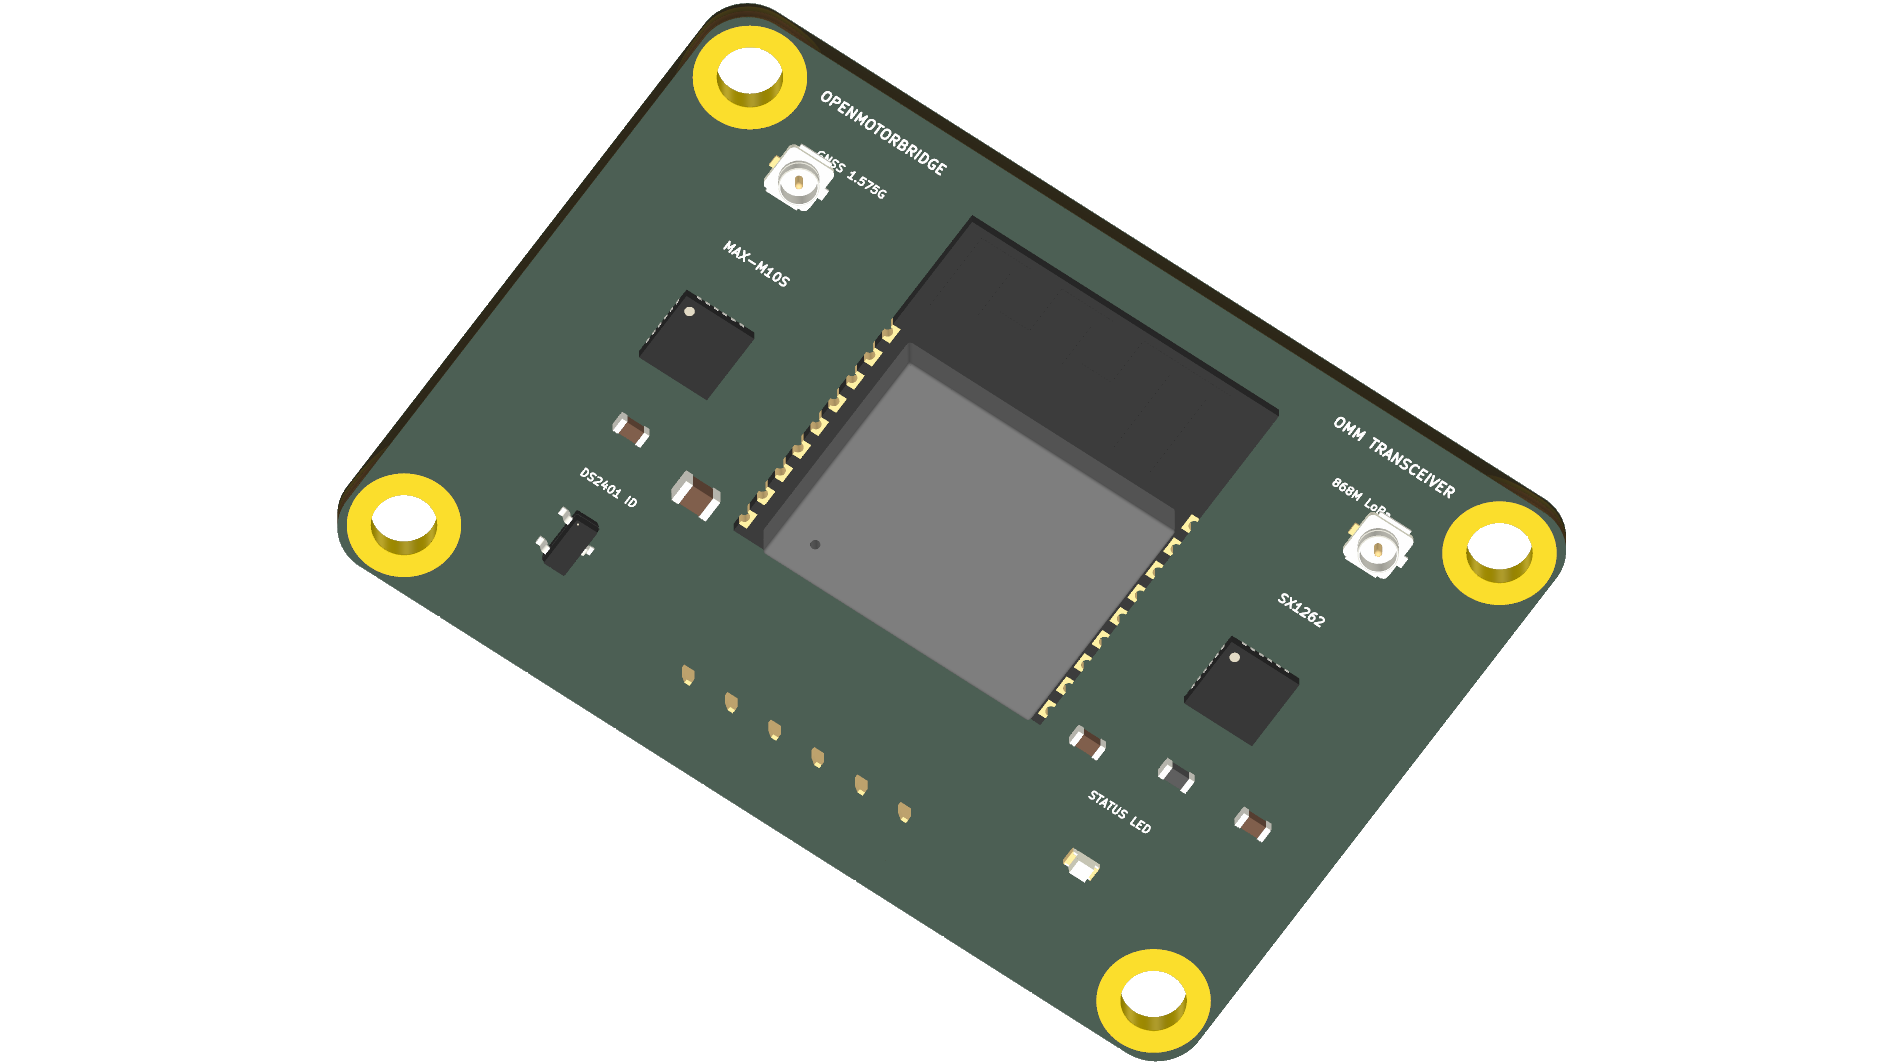
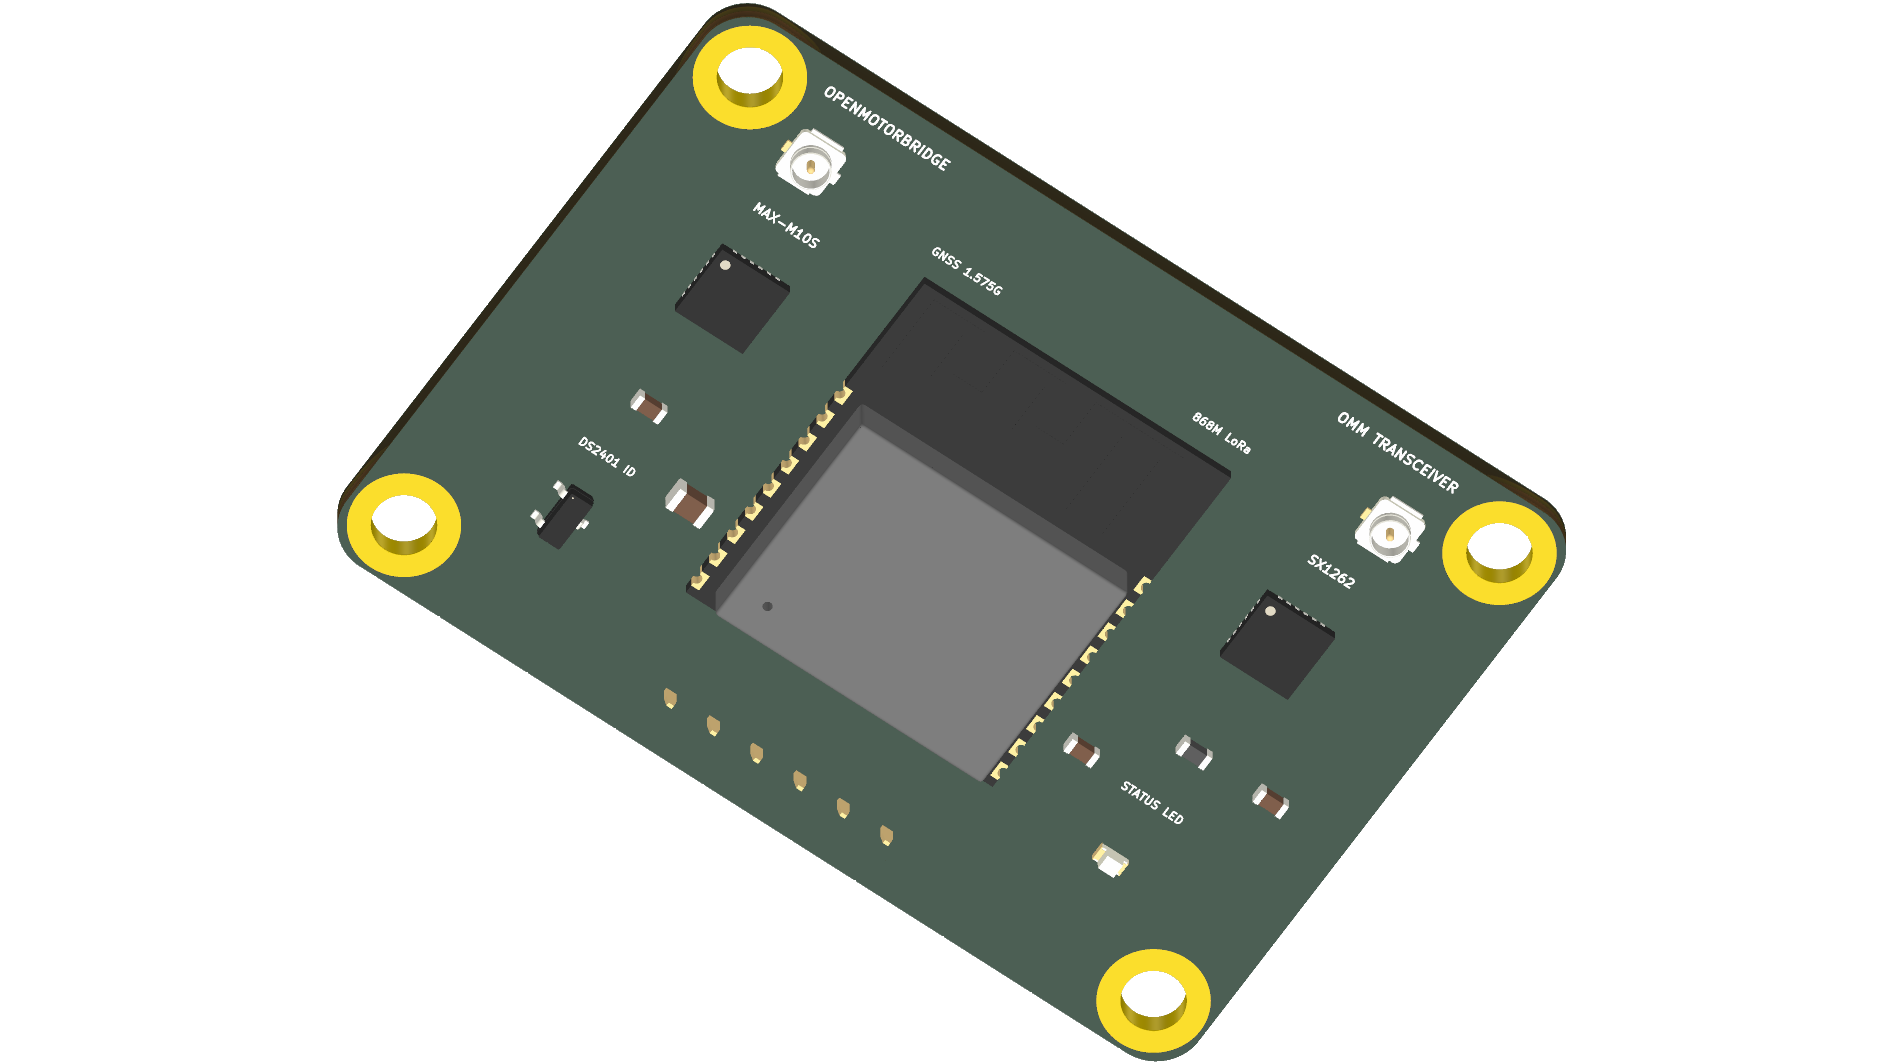
fix(hardware): shift ESP32-C3 module to Y=90.0 on Rear Pod 3 to ensure 2.5mm margin inside PCB outline with zero overhang

diff --git a/hardware/scripts/autoplace_rear_pod3.py b/hardware/scripts/autoplace_rear_pod3.py
@@ -56,26 +56,26 @@ def auto_place_rear_pod(pcb_path):
         'H3': (X0 + 3.5, Y_max - 3.5, 0.0, pcbnew.F_Cu), # (103.5, 101.5) Bottom-Left
         'H4': (X_max - 3.5, Y_max - 3.5, 0.0, pcbnew.F_Cu),# (146.5, 101.5) Bottom-Right
 
-        # Primary Active Components (ESP32 fully inside board boundary: Y 70.0 .. 105.0mm)
-        'U1': (125.0, 86.0, 0.0, pcbnew.F_Cu),           # ESP32-C3 (Antenna moved safely down inside PCB outline)
-        'U2': (109.0, 86.0, 0.0, pcbnew.F_Cu),           # u-blox MAX-M10S GNSS (Left Wing)
-        'U3': (141.0, 86.0, 0.0, pcbnew.F_Cu),           # Semtech SX1262 LoRa (Right Wing)
-        'U4': (110.0, 98.0, 0.0, pcbnew.F_Cu),           # DS2401 Silicon ROM ID (Bottom Left)
+        # Primary Active Components (ESP32 antenna at Y: 72.5 mm -> 2.5mm safely INSIDE board)
+        'U1': (125.0, 90.0, 0.0, pcbnew.F_Cu),           # ESP32-C3 (Antenna: Y 72.5..79.0 mm, fully inside PCB)
+        'U2': (109.0, 83.0, 0.0, pcbnew.F_Cu),           # u-blox MAX-M10S GNSS (Left Wing)
+        'U3': (141.0, 83.0, 0.0, pcbnew.F_Cu),           # Semtech SX1262 LoRa (Right Wing)
+        'U4': (109.0, 97.0, 0.0, pcbnew.F_Cu),           # DS2401 Silicon ROM ID (Bottom Left)
 
         # RF Antennas / U.FL Ports (Symmetrical Left & Right)
-        'ANT2': (108.0, 76.0, 0.0, pcbnew.F_Cu),         # GNSS 1.575 GHz RF Port (Direct short trace to U2)
-        'ANT1': (142.0, 76.0, 0.0, pcbnew.F_Cu),         # 868 MHz LoRa RF Port (Direct short trace to U3)
+        'ANT2': (108.0, 75.0, 0.0, pcbnew.F_Cu),         # GNSS 1.575 GHz RF Port (Direct short trace to U2)
+        'ANT1': (142.0, 75.0, 0.0, pcbnew.F_Cu),         # 868 MHz LoRa RF Port (Direct short trace to U3)
 
-        # J1: 6-Pin Socket on UNTERSEITE (B.Cu) - Horizontal, centered below ESP32 with generous clearance!
-        'J1': (125.0, 100.5, 90.0, pcbnew.B_Cu),         # 6-Pin Interface (Bottom layer B.Cu, Horizontal)
+        # J1: 6-Pin Socket on UNTERSEITE (B.Cu) - Horizontal along bottom edge
+        'J1': (125.0, 102.0, 90.0, pcbnew.B_Cu),         # 6-Pin Interface (Bottom layer B.Cu, Horizontal)
 
-        # Passives & Status LEDs placed on flanks (leaving center channel completely free)
-        'C1': (113.5, 92.5, 0.0, pcbnew.F_Cu),           # 10uF 3V3 Decoupling (Left flank)
-        'C2': (136.5, 92.5, 0.0, pcbnew.F_Cu),           # 100nF ESP32 Decoupling (Right flank)
-        'L1': (141.0, 91.5, 0.0, pcbnew.F_Cu),           # 47nH RF Choke for SX1262
-        'D1': (140.0, 98.0, 0.0, pcbnew.F_Cu),           # Green Status / Mesh Activity LED (Bottom Right)
-        'C3': (109.0, 91.5, 0.0, pcbnew.F_Cu),           # 100nF GNSS Decoupling
-        'C4': (145.5, 91.5, 0.0, pcbnew.F_Cu),           # 100nF LoRa Decoupling
+        # Passives & Status LEDs placed on flanks
+        'C1': (113.5, 93.0, 0.0, pcbnew.F_Cu),           # 10uF 3V3 Decoupling (Left flank)
+        'C2': (136.5, 93.0, 0.0, pcbnew.F_Cu),           # 100nF ESP32 Decoupling (Right flank)
+        'L1': (141.0, 90.0, 0.0, pcbnew.F_Cu),           # 47nH RF Choke for SX1262
+        'D1': (141.0, 97.0, 0.0, pcbnew.F_Cu),           # Green Status / Mesh Activity LED (Bottom Right)
+        'C3': (109.0, 90.0, 0.0, pcbnew.F_Cu),           # 100nF GNSS Decoupling
+        'C4': (145.5, 90.0, 0.0, pcbnew.F_Cu),           # 100nF LoRa Decoupling
 
         # Factory Testpoints (Placed cleanly on Bottom Layer B_Cu)
         'TP1': (115.0, 78.0, 0.0, pcbnew.B_Cu),          # TP_BOOT (GPIO9)
@@ -123,14 +123,14 @@ def auto_place_rear_pod(pcb_path):
         board.Remove(d)
 
     top_labels = [
-        ("OPENMOTORBRIDGE", 110.0, 71.8, 0.50, 0.50, 0.11),
-        ("OMM TRANSCEIVER", 140.0, 71.8, 0.50, 0.50, 0.11),
-        ("GNSS 1.575G", 110.0, 74.5, 0.40, 0.40, 0.09),
-        ("868M LoRa", 140.0, 74.5, 0.40, 0.40, 0.09),
-        ("MAX-M10S", 109.0, 81.0, 0.45, 0.45, 0.10),
-        ("SX1262", 141.0, 81.0, 0.45, 0.45, 0.10),
-        ("DS2401 ID", 110.0, 94.8, 0.40, 0.40, 0.09),
-        ("STATUS LED", 140.0, 94.8, 0.40, 0.40, 0.09),
+        ("OPENMOTORBRIDGE", 110.0, 71.5, 0.50, 0.50, 0.11),
+        ("OMM TRANSCEIVER", 140.0, 71.5, 0.50, 0.50, 0.11),
+        ("GNSS 1.575G", 117.5, 75.5, 0.40, 0.40, 0.09),
+        ("868M LoRa", 132.5, 75.5, 0.40, 0.40, 0.09),
+        ("MAX-M10S", 109.0, 78.5, 0.45, 0.45, 0.10),
+        ("SX1262", 141.0, 78.5, 0.45, 0.45, 0.10),
+        ("DS2401 ID", 109.0, 93.5, 0.40, 0.40, 0.09),
+        ("STATUS LED", 141.0, 93.5, 0.40, 0.40, 0.09),
     ]
 
     for text_str, x_mm, y_mm, sx, sy, th in top_labels:
